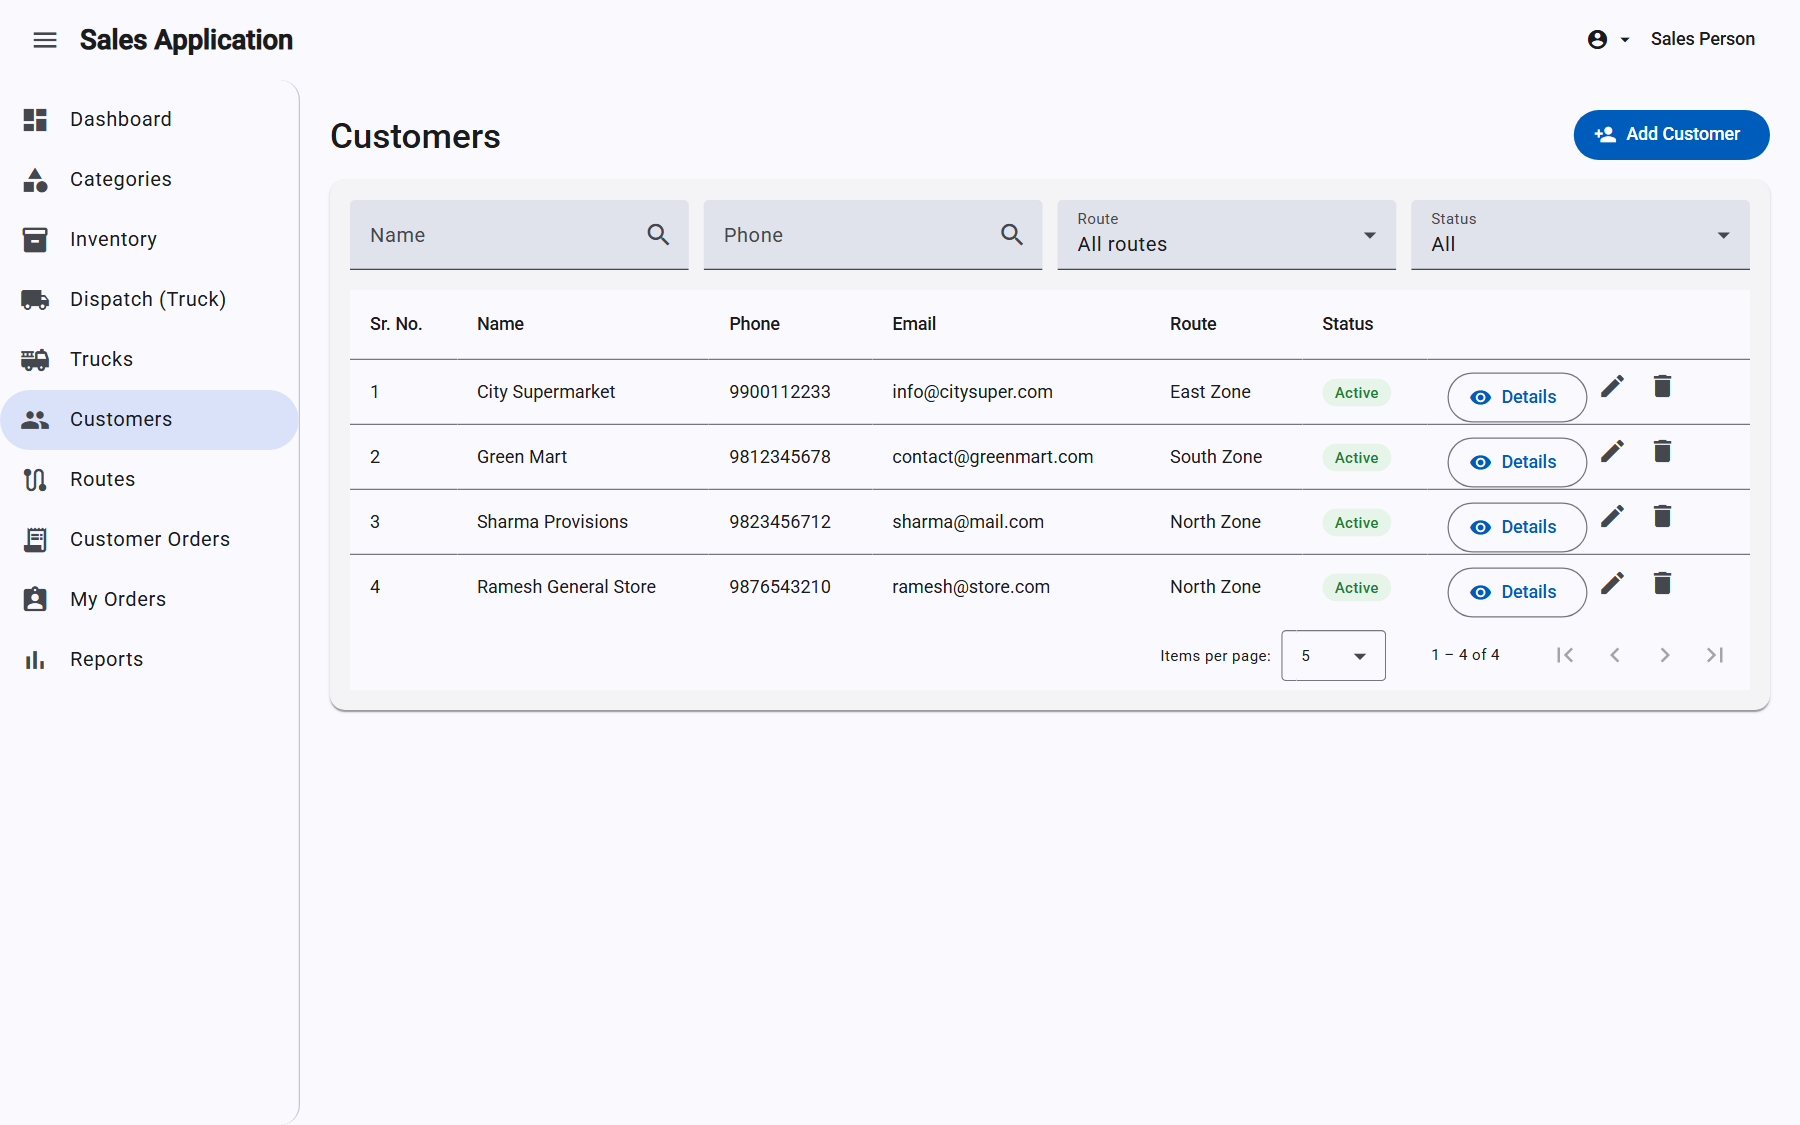
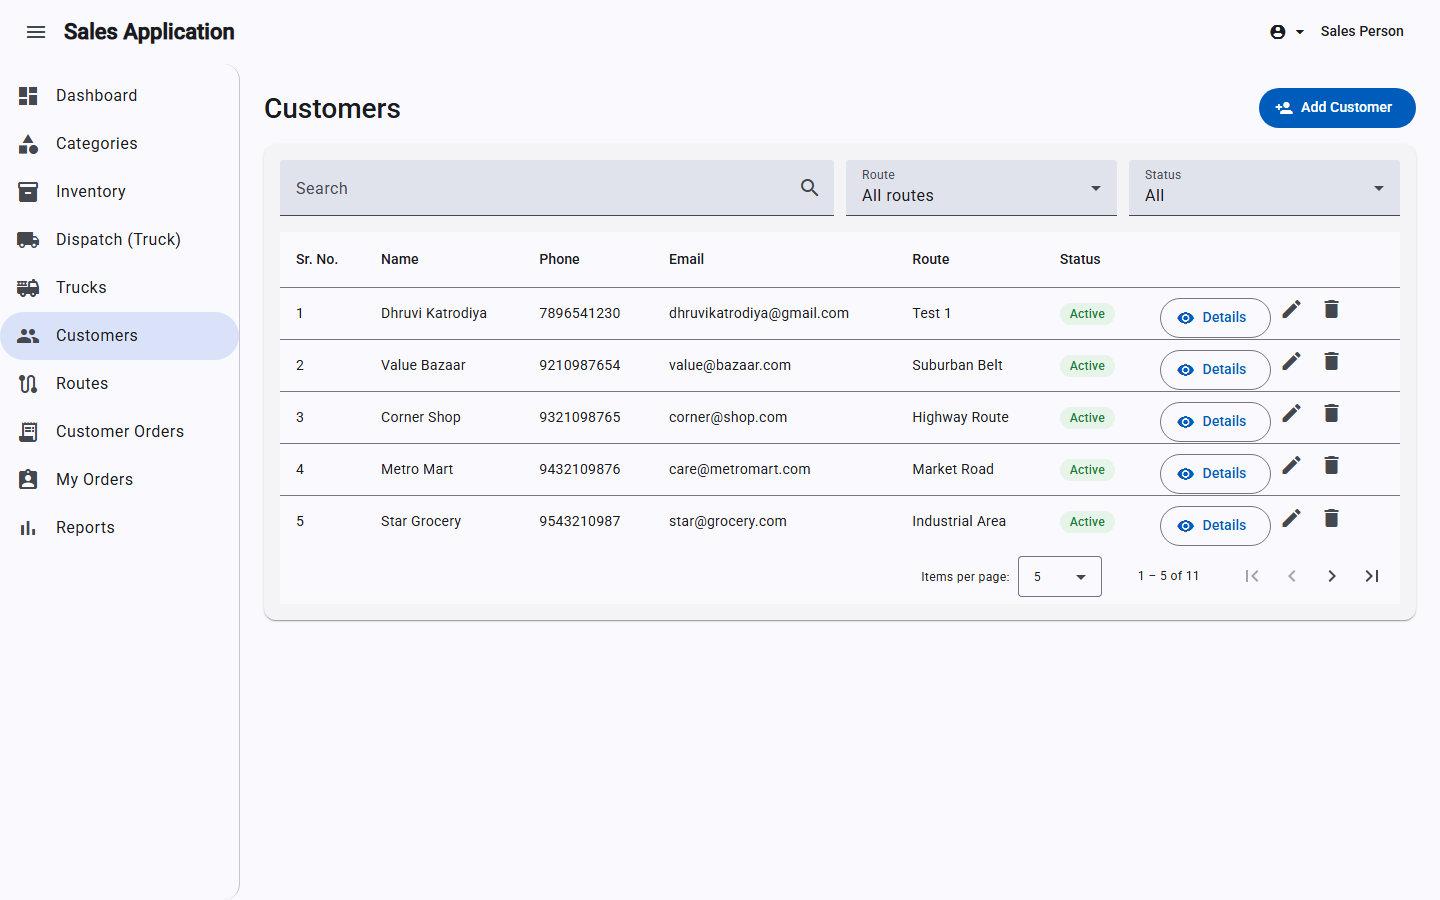
fix minor changes

diff --git a/frontend/sales-app/src/app/core/api.service.ts b/frontend/sales-app/src/app/core/api.service.ts
@@ -66,7 +66,7 @@ export class ApiService {
   activateSubCategory(id: number) { return this.http.put(`${this.base}/subcategories/${id}/activate`, {}); }
 
   // ---- Items / Inventory ----
-  getItems(opts?: { subCategoryId?: number; lowStock?: boolean; threshold?: number; category?: string; item?: string; sku?: string; active?: string; page?: number; pageSize?: number }) {
+  getItems(opts?: { subCategoryId?: number; lowStock?: boolean; threshold?: number; category?: string; item?: string; sku?: string; search?: string; active?: string; page?: number; pageSize?: number }) {
     let p = new HttpParams();
     if (opts?.subCategoryId) p = p.set('subCategoryId', opts.subCategoryId);
     if (opts?.active) p = p.set('active', opts.active);
@@ -75,6 +75,7 @@ export class ApiService {
     if (opts?.category) p = p.set('category', opts.category);
     if (opts?.item) p = p.set('item', opts.item);
     if (opts?.sku) p = p.set('sku', opts.sku);
+    if (opts?.search) p = p.set('search', opts.search);
     if (opts?.page) p = p.set('page', opts.page);
     if (opts?.pageSize) p = p.set('pageSize', opts.pageSize);
     return this.http.get<PagedResult<Item>>(`${this.base}/items`, { params: p });
@@ -143,11 +144,12 @@ export class ApiService {
   activateRoute(id: number) { return this.http.put(`${this.base}/routes/${id}/activate`, {}); }
 
   // ---- Customers ----
-  getCustomers(opts?: { name?: string; phone?: string; routeId?: number; active?: string; page?: number; pageSize?: number }) {
+  getCustomers(opts?: { name?: string; phone?: string; search?: string; routeId?: number; active?: string; page?: number; pageSize?: number }) {
     let p = new HttpParams();
     if (opts?.name) p = p.set('name', opts.name);
     if (opts?.active) p = p.set('active', opts.active);
     if (opts?.phone) p = p.set('phone', opts.phone);
+    if (opts?.search) p = p.set('search', opts.search);
     if (opts?.routeId) p = p.set('routeId', opts.routeId);
     if (opts?.page) p = p.set('page', opts.page);
     if (opts?.pageSize) p = p.set('pageSize', opts.pageSize);
@@ -189,11 +191,12 @@ export class ApiService {
   activateTruck(id: number) { return this.http.put(`${this.base}/trucks/${id}/activate`, {}); }
 
   // ---- Orders ----
-  getOrders(opts?: { orderNumber?: string; customer?: string; orderDate?: string; status?: OrderStatus; paymentStatus?: number; mine?: boolean; active?: string; page?: number; pageSize?: number }) {
+  getOrders(opts?: { orderNumber?: string; customer?: string; search?: string; orderDate?: string; status?: OrderStatus; paymentStatus?: number; mine?: boolean; active?: string; page?: number; pageSize?: number }) {
     let p = new HttpParams();
     if (opts?.orderNumber) p = p.set('orderNumber', opts.orderNumber);
     if (opts?.active) p = p.set('active', opts.active);
     if (opts?.customer) p = p.set('customer', opts.customer);
+    if (opts?.search) p = p.set('search', opts.search);
     if (opts?.orderDate) p = p.set('orderDate', opts.orderDate);
     if (opts?.status != null) p = p.set('status', opts.status);
     if (opts?.paymentStatus != null) p = p.set('paymentStatus', opts.paymentStatus);
@@ -242,12 +245,13 @@ export class ApiService {
   deletePayment(id: number) { return this.http.delete<Order>(`${this.base}/payments/${id}`); }
 
   // ---- Stock requests ("My Orders") ----
-  getStockRequests(opts?: { requestNumber?: string; date?: string; item?: string; status?: number; paymentStatus?: number; active?: string; page?: number; pageSize?: number }) {
+  getStockRequests(opts?: { requestNumber?: string; date?: string; item?: string; search?: string; status?: number; paymentStatus?: number; active?: string; page?: number; pageSize?: number }) {
     let p = new HttpParams();
     if (opts?.requestNumber) p = p.set('requestNumber', opts.requestNumber);
     if (opts?.active) p = p.set('active', opts.active);
     if (opts?.date) p = p.set('date', opts.date);
     if (opts?.item) p = p.set('item', opts.item);
+    if (opts?.search) p = p.set('search', opts.search);
     if (opts?.status != null) p = p.set('status', opts.status);
     if (opts?.paymentStatus != null) p = p.set('paymentStatus', opts.paymentStatus);
     if (opts?.page) p = p.set('page', opts.page);

diff --git a/frontend/sales-app/src/app/features/orders/orders.ts b/frontend/sales-app/src/app/features/orders/orders.ts
@@ -52,15 +52,14 @@ export class Orders implements OnInit {
   items = signal<Item[]>([]);
 
   // ---- Filters ----
-  orderNumberFilter = signal<string>('');
-  customerFilter = signal<string>('');
+  search = signal<string>('');       // matches order number or customer name
   orderDateFilter = signal<Date | null>(null);
   deliveryStatusFilter = signal<number>(-1);   // -1 = "All" (shown selected by default)
   paidStatusFilter = signal<number>(-1);       // -1 = "All"
   activeFilter = signal<'active' | 'inactive' | 'all'>('all');
 
   hasFilters = computed(() =>
-    !!this.orderNumberFilter() || !!this.customerFilter() || !!this.orderDateFilter() ||
+    !!this.search() || !!this.orderDateFilter() ||
     this.deliveryStatusFilter() >= 0 || this.paidStatusFilter() >= 0 || this.activeFilter() !== 'all');
 
   columns = ['orderNumber', 'customer', 'orderDate', 'delivery', 'status', 'payment', 'total', 'remaining', 'active', 'actions'];
@@ -75,15 +74,13 @@ export class Orders implements OnInit {
 
   // Filter setters (reset to the first page and reload from the server on any change)
   private reload() { this.pager.reset(); this.load(); }
-  setOrderNumberFilter(v: string) { this.orderNumberFilter.set(v); this.reload(); }
-  setCustomerFilter(v: string) { this.customerFilter.set(v); this.reload(); }
+  setSearch(v: string) { this.search.set(v); this.reload(); }
   setOrderDateFilter(v: Date | null) { this.orderDateFilter.set(v); this.reload(); }
   setDeliveryStatusFilter(v: number) { this.deliveryStatusFilter.set(v); this.reload(); }
   setPaidStatusFilter(v: number) { this.paidStatusFilter.set(v); this.reload(); }
   setActiveFilter(v: 'active' | 'inactive' | 'all') { this.activeFilter.set(v); this.reload(); }
   clearFilters() {
-    this.orderNumberFilter.set('');
-    this.customerFilter.set('');
+    this.search.set('');
     this.orderDateFilter.set(null);
     this.deliveryStatusFilter.set(-1);
     this.paidStatusFilter.set(-1);
@@ -102,8 +99,7 @@ export class Orders implements OnInit {
   load() {
     const d = this.orderDateFilter();
     this.api.getOrders({
-      orderNumber: this.orderNumberFilter() || undefined,
-      customer: this.customerFilter() || undefined,
+      search: this.search() || undefined,
       orderDate: d ? this.toIsoDate(d) : undefined,
       status: this.deliveryStatusFilter() >= 0 ? (this.deliveryStatusFilter() as OrderStatus) : undefined,
       paymentStatus: this.paidStatusFilter() >= 0 ? this.paidStatusFilter() : undefined,

diff --git a/frontend/sales-app/src/app/features/inventory/inventory.ts b/frontend/sales-app/src/app/features/inventory/inventory.ts
@@ -34,6 +34,8 @@ import { createServerPager, PAGE_SIZE_OPTIONS } from '../../shared/pager';
       margin-bottom: 16px;
     }
     .search-grid mat-form-field { width: 100%; }
+    .search-grid .search-box { grid-column: span 3; }
+    @media (max-width: 800px) { .search-grid .search-box { grid-column: auto; } }
   `
 })
 export class Inventory implements OnInit {
@@ -43,9 +45,7 @@ export class Inventory implements OnInit {
 
   items = signal<Item[]>([]);    // server-filtered list (current page is sliced client-side)
   subCategories = signal<SubCategory[]>([]);
-  categoryFilter = signal('');   // category / sub-category name
-  itemFilter = signal('');       // item name
-  skuFilter = signal('');        // SKU
+  search = signal('');           // matches item name, SKU, or category / sub-category
   lowOnly = signal(false);       // stock <= 10
   status = signal<'active' | 'inactive' | 'all'>('all');
 
@@ -54,16 +54,12 @@ export class Inventory implements OnInit {
   readonly pageSizeOptions = PAGE_SIZE_OPTIONS;
   pager = createServerPager(() => this.load());
 
-  setCategoryFilter(v: string) { this.categoryFilter.set(v); this.reload(); }
-  setItemFilter(v: string) { this.itemFilter.set(v); this.reload(); }
-  setSkuFilter(v: string) { this.skuFilter.set(v); this.reload(); }
+  setSearch(v: string) { this.search.set(v); this.reload(); }
   setLowOnly(v: boolean) { this.lowOnly.set(v); this.reload(); }
   setStatus(v: 'active' | 'inactive' | 'all') { this.status.set(v); this.reload(); }
-  hasFilters = () => !!this.categoryFilter() || !!this.itemFilter() || !!this.skuFilter() || this.lowOnly() || this.status() !== 'all';
+  hasFilters = () => !!this.search() || this.lowOnly() || this.status() !== 'all';
   clearFilters() {
-    this.categoryFilter.set('');
-    this.itemFilter.set('');
-    this.skuFilter.set('');
+    this.search.set('');
     this.lowOnly.set(false);
     this.status.set('all');
     this.reload();
@@ -78,9 +74,7 @@ export class Inventory implements OnInit {
 
   load() {
     this.api.getItems({
-      category: this.categoryFilter() || undefined,
-      item: this.itemFilter() || undefined,
-      sku: this.skuFilter() || undefined,
+      search: this.search() || undefined,
       lowStock: this.lowOnly() || undefined,
       active: this.status(),
       page: this.pager.pageIndex() + 1,

diff --git a/frontend/sales-app/src/app/features/my-orders/my-orders.ts b/frontend/sales-app/src/app/features/my-orders/my-orders.ts
@@ -51,15 +51,14 @@ export class MyOrders implements OnInit {
   advance = signal<StockRequestAdvance | null>(null);
 
   // ---- Filters ----
-  requestNumberFilter = signal<string>('');
+  search = signal<string>('');          // matches request number or item name
   dateFilter = signal<Date | null>(null);
-  itemFilter = signal<string>('');
   statusFilter = signal<number>(-1);    // -1 = "All" (shown selected by default)
   paymentFilter = signal<number>(-1);   // -1 = "All"
   activeFilter = signal<'active' | 'inactive' | 'all'>('all');
 
   hasFilters = () =>
-    !!this.requestNumberFilter() || !!this.dateFilter() || !!this.itemFilter() ||
+    !!this.search() || !!this.dateFilter() ||
     this.statusFilter() >= 0 || this.paymentFilter() >= 0 || this.activeFilter() !== 'all';
 
   readonly Status = StockRequestStatus;
@@ -84,9 +83,8 @@ export class MyOrders implements OnInit {
   load() {
     const d = this.dateFilter();
     this.api.getStockRequests({
-      requestNumber: this.requestNumberFilter() || undefined,
+      search: this.search() || undefined,
       date: d ? this.toIsoDate(d) : undefined,
-      item: this.itemFilter() || undefined,
       status: this.statusFilter() >= 0 ? this.statusFilter() : undefined,
       paymentStatus: this.paymentFilter() >= 0 ? this.paymentFilter() : undefined,
       active: this.activeFilter(),
@@ -108,16 +106,14 @@ export class MyOrders implements OnInit {
   }
 
   private reload() { this.pager.reset(); this.load(); }
-  setRequestNumberFilter(v: string) { this.requestNumberFilter.set(v); this.reload(); }
+  setSearch(v: string) { this.search.set(v); this.reload(); }
   setDateFilter(v: Date | null) { this.dateFilter.set(v); this.reload(); }
-  setItemFilter(v: string) { this.itemFilter.set(v); this.reload(); }
   setStatusFilter(v: number) { this.statusFilter.set(v); this.reload(); }
   setPaymentFilter(v: number) { this.paymentFilter.set(v); this.reload(); }
   setActiveFilter(v: 'active' | 'inactive' | 'all') { this.activeFilter.set(v); this.reload(); }
   clearFilters() {
-    this.requestNumberFilter.set('');
+    this.search.set('');
     this.dateFilter.set(null);
-    this.itemFilter.set('');
     this.statusFilter.set(-1);
     this.paymentFilter.set(-1);
     this.activeFilter.set('all');

diff --git a/frontend/sales-app/src/app/features/inventory/inventory.html b/frontend/sales-app/src/app/features/inventory/inventory.html
@@ -7,21 +7,9 @@
   <mat-card class="table-card">
     <mat-card-content>
       <div class="search-grid">
-        <mat-form-field appearance="fill" subscriptSizing="dynamic">
-          <mat-label>Category</mat-label>
-          <input matInput [ngModel]="categoryFilter()" (ngModelChange)="setCategoryFilter($event)" placeholder="category name" />
-          <mat-icon matSuffix>search</mat-icon>
-        </mat-form-field>
-
-        <mat-form-field appearance="fill" subscriptSizing="dynamic">
-          <mat-label>Item</mat-label>
-          <input matInput [ngModel]="itemFilter()" (ngModelChange)="setItemFilter($event)" placeholder="item name" />
-          <mat-icon matSuffix>search</mat-icon>
-        </mat-form-field>
-
-        <mat-form-field appearance="fill" subscriptSizing="dynamic">
-          <mat-label>SKU</mat-label>
-          <input matInput [ngModel]="skuFilter()" (ngModelChange)="setSkuFilter($event)" placeholder="SKU" />
+        <mat-form-field class="search-box" appearance="fill" subscriptSizing="dynamic">
+          <mat-label>Search</mat-label>
+          <input matInput [ngModel]="search()" (ngModelChange)="setSearch($event)" placeholder="Search by item name, SKU, or category" />
           <mat-icon matSuffix>search</mat-icon>
         </mat-form-field>
 
@@ -98,7 +86,7 @@
             @if (i.isActive) {
               <button mat-icon-button title="Delete" (click)="remove(i)"><mat-icon>delete</mat-icon></button>
             } @else {
-              <button mat-icon-button title="Activate" (click)="activate(i)"><mat-icon>restore</mat-icon></button>
+              <button mat-icon-button title="Activate" (click)="activate(i)"><mat-icon>check_circle</mat-icon></button>
             }
           </td>
         </ng-container>

diff --git a/frontend/sales-app/src/app/features/customers/customers.ts b/frontend/sales-app/src/app/features/customers/customers.ts
@@ -33,8 +33,7 @@ export class Customers implements OnInit {
 
   customers = signal<Customer[]>([]);
   routes = signal<Route[]>([]);
-  nameSearch = signal('');
-  phoneSearch = signal('');
+  search = signal('');               // matches customer name or phone
   routeFilter = signal<number>(0);   // 0 = "All routes" (shown selected by default)
   status = signal<'active' | 'inactive' | 'all'>('all');
 
@@ -56,8 +55,7 @@ export class Customers implements OnInit {
 
   load() {
     this.api.getCustomers({
-      name: this.nameSearch() || undefined,
-      phone: this.phoneSearch() || undefined,
+      search: this.search() || undefined,
       routeId: this.routeFilter() || undefined,
       active: this.status(),
       page: this.pager.pageIndex() + 1,
@@ -76,14 +74,12 @@ export class Customers implements OnInit {
   loadRoutes() { this.api.getAllRoutes().subscribe(list => this.routes.set(list)); }
 
   private reload() { this.pager.reset(); this.load(); }
-  setNameSearch(v: string) { this.nameSearch.set(v); this.reload(); }
-  setPhoneSearch(v: string) { this.phoneSearch.set(v); this.reload(); }
+  setSearch(v: string) { this.search.set(v); this.reload(); }
   setRouteFilter(v: number) { this.routeFilter.set(v); this.reload(); }
   setStatus(v: 'active' | 'inactive' | 'all') { this.status.set(v); this.reload(); }
-  hasFilters = () => !!this.nameSearch() || !!this.phoneSearch() || this.routeFilter() > 0 || this.status() !== 'all';
+  hasFilters = () => !!this.search() || this.routeFilter() > 0 || this.status() !== 'all';
   clearFilters() {
-    this.nameSearch.set('');
-    this.phoneSearch.set('');
+    this.search.set('');
     this.routeFilter.set(0);
     this.status.set('all');
     this.reload();

diff --git a/frontend/sales-app/src/app/features/my-orders/my-orders.html b/frontend/sales-app/src/app/features/my-orders/my-orders.html
@@ -16,9 +16,9 @@
       }
 
       <div class="row" style="margin-bottom:16px; gap:12px; flex-wrap:wrap; align-items:flex-start">
-        <mat-form-field appearance="fill" subscriptSizing="dynamic" style="width:180px">
-          <mat-label>Request #</mat-label>
-          <input matInput [ngModel]="requestNumberFilter()" (ngModelChange)="setRequestNumberFilter($event)" placeholder="REQ-…" />
+        <mat-form-field appearance="fill" subscriptSizing="dynamic" style="width:300px">
+          <mat-label>Search</mat-label>
+          <input matInput [ngModel]="search()" (ngModelChange)="setSearch($event)" placeholder="Search by request number or item name" />
           <mat-icon matSuffix>search</mat-icon>
         </mat-form-field>
 
@@ -27,12 +27,6 @@
           <input matInput appDateInput [matDatepicker]="dp" [ngModel]="dateFilter()" (ngModelChange)="setDateFilter($event)" placeholder="dd-mm-yyyy" />
           <mat-datepicker-toggle matSuffix [for]="dp"></mat-datepicker-toggle>
           <mat-datepicker #dp></mat-datepicker>
-        </mat-form-field>
-
-        <mat-form-field appearance="fill" subscriptSizing="dynamic" style="width:180px">
-          <mat-label>Items</mat-label>
-          <input matInput [ngModel]="itemFilter()" (ngModelChange)="setItemFilter($event)" placeholder="item name" />
-          <mat-icon matSuffix>search</mat-icon>
         </mat-form-field>
 
         <mat-form-field appearance="fill" subscriptSizing="dynamic" style="width:170px">

diff --git a/frontend/sales-app/src/app/features/orders/orders.html b/frontend/sales-app/src/app/features/orders/orders.html
@@ -7,15 +7,9 @@
   <mat-card class="table-card">
     <mat-card-content>
       <div class="filters">
-        <mat-form-field appearance="fill" class="f-customer">
-          <mat-label>Order #</mat-label>
-          <input matInput [ngModel]="orderNumberFilter()" (ngModelChange)="setOrderNumberFilter($event)" placeholder="Search order number" />
-          <mat-icon matSuffix>search</mat-icon>
-        </mat-form-field>
-
-        <mat-form-field appearance="fill" class="f-customer">
-          <mat-label>Customer Name</mat-label>
-          <input matInput [ngModel]="customerFilter()" (ngModelChange)="setCustomerFilter($event)" placeholder="Search customer" />
+        <mat-form-field appearance="fill" class="f-search">
+          <mat-label>Search</mat-label>
+          <input matInput [ngModel]="search()" (ngModelChange)="setSearch($event)" placeholder="Search by order number or customer name" />
           <mat-icon matSuffix>search</mat-icon>
         </mat-form-field>
 

diff --git a/frontend/sales-app/src/app/features/customers/customers.html b/frontend/sales-app/src/app/features/customers/customers.html
@@ -7,15 +7,9 @@
   <mat-card class="table-card">
     <mat-card-content>
       <div class="search-grid">
-        <mat-form-field appearance="fill" subscriptSizing="dynamic">
-          <mat-label>Name</mat-label>
-          <input matInput [ngModel]="nameSearch()" (ngModelChange)="setNameSearch($event)" placeholder="customer name" />
-          <mat-icon matSuffix>search</mat-icon>
-        </mat-form-field>
-
-        <mat-form-field appearance="fill" subscriptSizing="dynamic">
-          <mat-label>Phone</mat-label>
-          <input matInput [ngModel]="phoneSearch()" (ngModelChange)="setPhoneSearch($event)" placeholder="phone" />
+        <mat-form-field class="search-box" appearance="fill" subscriptSizing="dynamic">
+          <mat-label>Search</mat-label>
+          <input matInput [ngModel]="search()" (ngModelChange)="setSearch($event)" placeholder="Search by customer name or phone" />
           <mat-icon matSuffix>search</mat-icon>
         </mat-form-field>
 

diff --git a/frontend/sales-app/src/app/features/orders/orders.scss b/frontend/sales-app/src/app/features/orders/orders.scss
@@ -6,6 +6,7 @@
   margin-bottom: 12px;
 }
 .filters .f-customer { flex: 1 1 220px; min-width: 200px; }
+.filters .f-search { flex: 1 1 320px; min-width: 240px; }
 .filters .f-date { width: 170px; }
 .filters .f-status { width: 170px; }
 .filters .f-clear { margin-bottom: 18px; }  /* align with form-field baseline */

diff --git a/frontend/sales-app/src/app/features/customers/customers.scss b/frontend/sales-app/src/app/features/customers/customers.scss
@@ -5,6 +5,8 @@
   margin-bottom: 16px;
 }
 .search-grid mat-form-field { width: 100%; }
+.search-grid .search-box { grid-column: span 2; }
+@media (max-width: 600px) { .search-grid .search-box { grid-column: auto; } }
 
 .info-grid {
   display: grid;

diff --git a/backend/SalesApp.Api/Controllers/ItemsController.cs b/backend/SalesApp.Api/Controllers/ItemsController.cs
@@ -27,6 +27,7 @@ public class ItemsController : OwnedControllerBase
     public async Task<ActionResult<PagedResult<ItemDto>>> GetAll(
         [FromQuery] int? subCategoryId, [FromQuery] bool lowStock = false, [FromQuery] int threshold = 10,
         [FromQuery] string? category = null, [FromQuery] string? item = null, [FromQuery] string? sku = null,
+        [FromQuery] string? search = null,
         [FromQuery] string? active = null, [FromQuery] int page = 1, [FromQuery] int pageSize = 5)
     {
         page = page < 1 ? 1 : page;
@@ -50,6 +51,15 @@ public class ItemsController : OwnedControllerBase
         {
             var term = sku.Trim();
             query = query.Where(i => i.Sku != null && i.Sku.Contains(term));
+        }
+        if (!string.IsNullOrWhiteSpace(search))
+        {
+            var term = search.Trim();
+            query = query.Where(i =>
+                i.Name.Contains(term) ||
+                (i.Sku != null && i.Sku.Contains(term)) ||
+                i.SubCategory!.Category!.Name.Contains(term) ||
+                i.SubCategory.Name.Contains(term));
         }
 
         var ordered = query.OrderByDescending(i => i.CreatedAt).ThenByDescending(i => i.Id);
